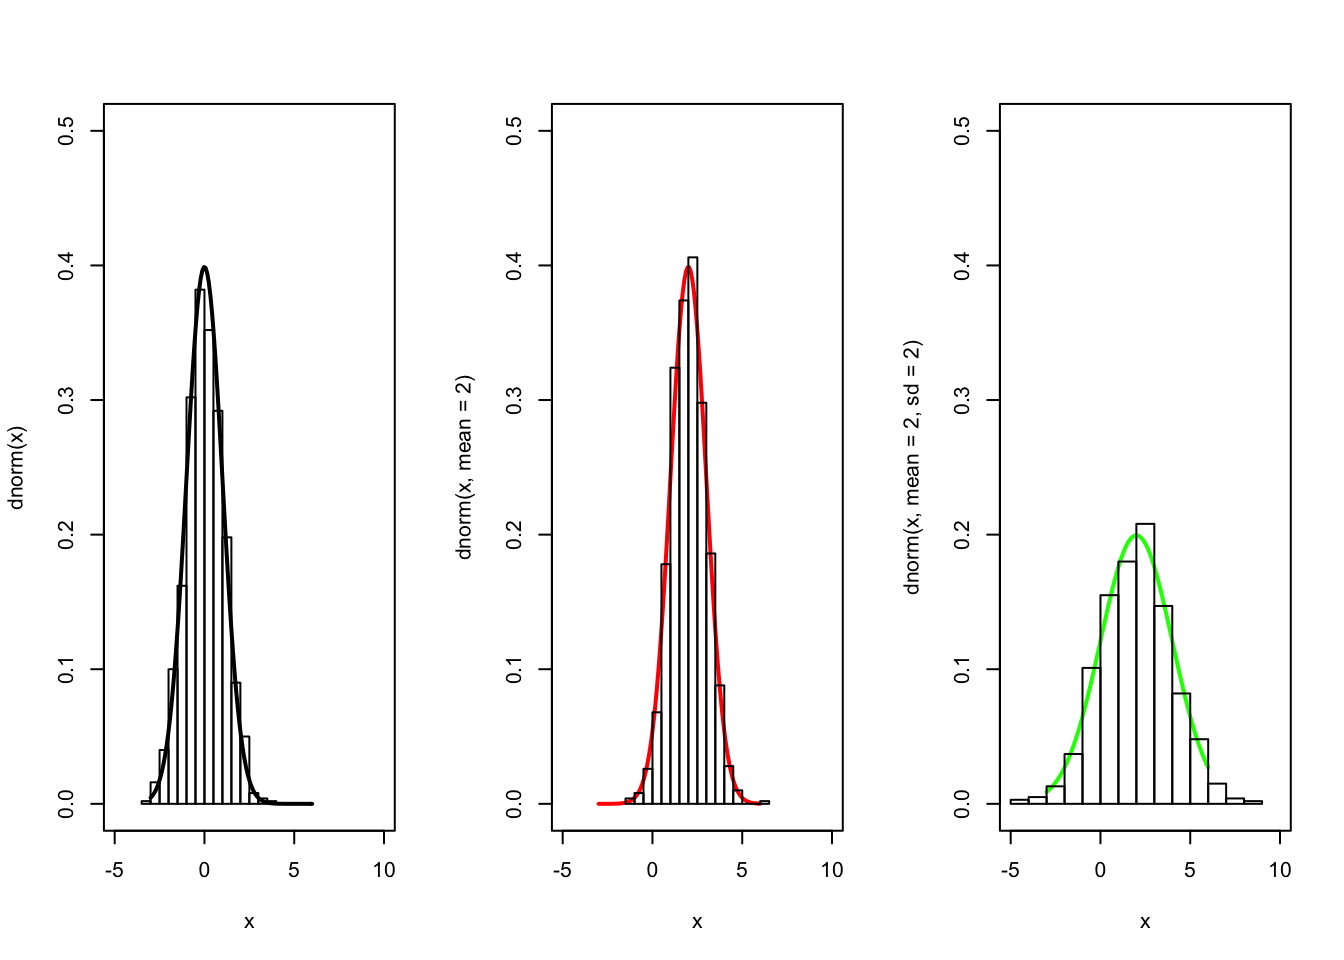
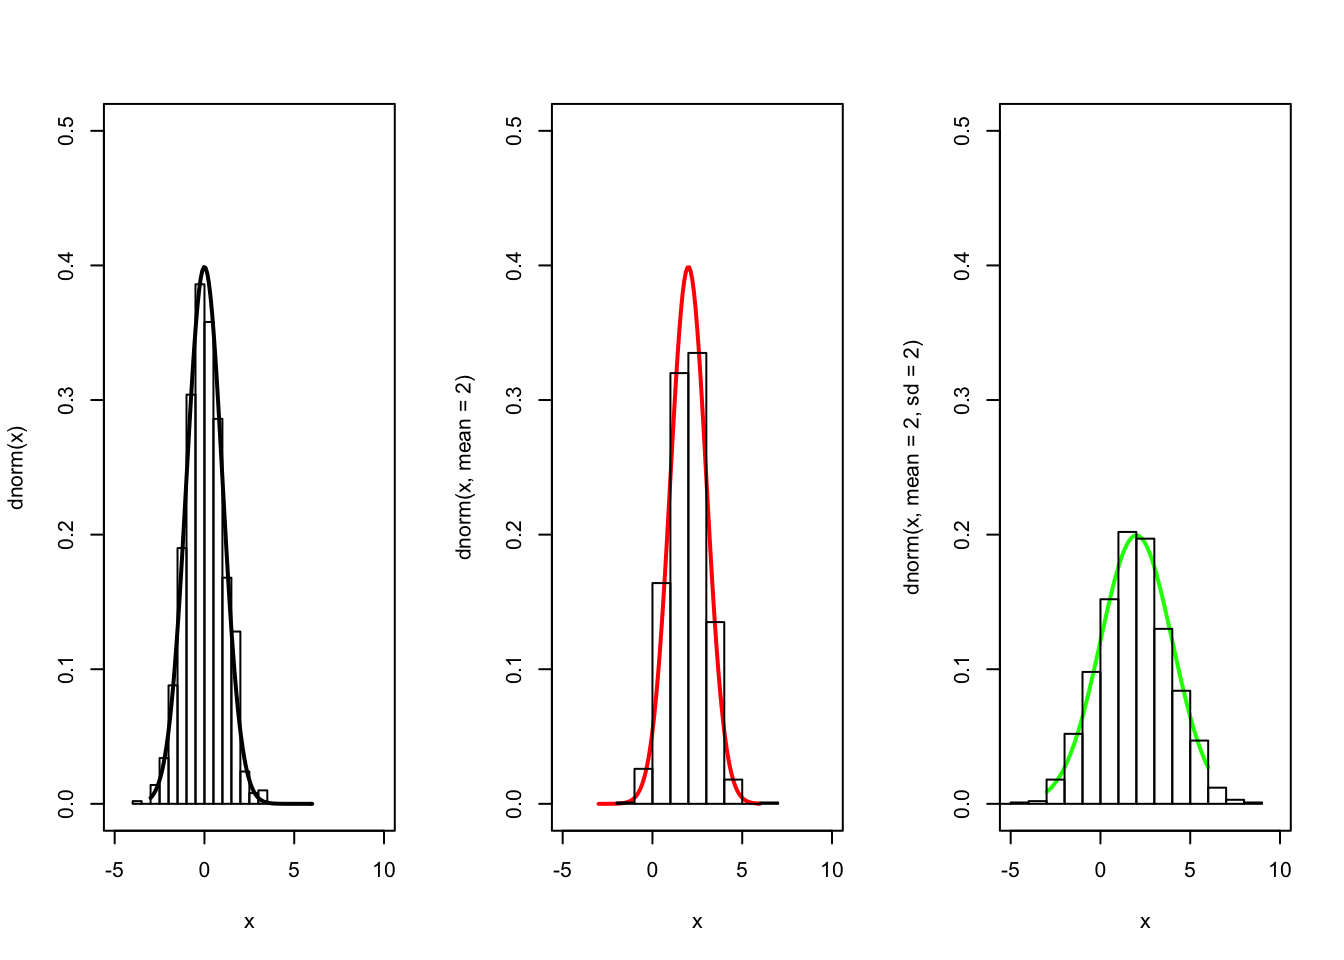
final edits

diff --git a/5_SimpleStats.html b/5_SimpleStats.html
@@ -438,7 +438,7 @@ div.tocify {
 <p>Important functions to know for first and second order moments are:</p>
 <ul>
 <li><code>mean(x)</code>, <code>weighted.mean(x)</code>, <code>median(x)</code> : arithmetic mean, weighted mean, and median of a vector (here: x)</li>
-<li><code>quantile(x, probs=p)</code> : the p% quantile of vector x</li>
+<li><code>quantile(x, probs = p)</code> : the p% quantile of vector x</li>
 <li><code>sd(x)</code>, <code>var(x)</code>: standard deviation, and variance (both with denominator n-1)</li>
 <li><code>mad(x)</code> : median absolute deviation</li>
 <li><code>range(x)</code> : minimum and maximum values</li>
@@ -471,24 +471,24 @@ dnorm(0, 2)</code></pre>
 <pre class="r"><code># look at green curve in above plot:
 dnorm(0, 2, 2) </code></pre>
 <pre><code>## [1] 0.1209854</code></pre>
-<p>We can also draw random numbers from these distributions using the function <code>rnorm()</code>.</p>
+<p>We can also draw random numbers from these distributions using the function <code>rnorm()</code>. ?dnorm</p>
 <pre class="r"><code># draw 10 random numbers from the standard normal distribution:
 rnorm(10)</code></pre>
-<pre><code>##  [1] -0.1149904 -0.2927501 -0.8794179 -0.7420134  0.2963912  1.4559174
-##  [7] -0.2469890  0.4642328  0.1853540  1.5307904</code></pre>
+<pre><code>##  [1]  0.32491033 -1.00297892 -1.12373098  0.08393606  0.93451556  0.45550842
+##  [7]  1.70269308 -0.79156564  0.86335446  0.89532436</code></pre>
 <pre class="r"><code>par(mfrow=c(1,3)) 
 # plot the density function
 curve(dnorm(x), -3, 6, lwd = 2, ylim = c(0, 0.5), xlim=c(-5,10)) 
 # draw random numbers and plot as histogram
-hist(rnorm(1000), freq=F, col=NULL, add=T) 
+hist(rnorm(1000), freq = FALSE, col = NULL, add = TRUE) 
 
 # change parameter mean 
 curve(dnorm(x, mean = 2), -3, 6, col = &quot;red&quot;, lwd = 2,  ylim = c(0, 0.5), xlim=c(-5,10)) 
-hist(rnorm(1000, mean=2), freq=F, col=NULL,  add=T) 
+hist(rnorm(1000, mean=2), freq=FALSE, col=NULL,  add=TRUE) 
 
 # change parameters mean and sd 
 curve(dnorm(x, mean = 2, sd = 2), -3, 6, col = &quot;green&quot;, lwd = 2,  ylim = c(0, 0.5), xlim=c(-5,10))
-hist(rnorm(1000, mean=2, sd=2), freq=F, col=NULL, add=T)</code></pre>
+hist(rnorm(1000, mean=2, sd=2), freq=FALSE, col=NULL, add=TRUE)</code></pre>
 <p><img src="5_SimpleStats_files/figure-html/unnamed-chunk-3-1.png" width="672" /></p>
 <p><strong>Extra:</strong> Also have a look at the cumulative density function <code>pnorm()</code> and the quantile function <code>qnorm()</code>.</p>
 </div>
@@ -501,9 +501,9 @@ sample(1:30, size = 20, replace = TRUE) # with replacement
 sample(letters, 10)</code></pre>
 <div class="alert alert-info">
 <p><em><strong>Exercises:</strong></em></p>
-<p>Task 1: Create a sample with <code>n = 1000</code> draws from the log-normal distribution. <!-- This makes them think about another distribution, they will have to figure out how to parametrize (if there are no defaults) and draw a sample. --></p>
+<p>Task 1: Create a sample with <code>n = 1000</code> draws from the log-normal distribution, choose your own distribution parameters or just use the defaults. Plot the curve and histogram. <!-- This makes them think about another distribution, they will have to figure out how to parametrize (if there are no defaults) and draw a sample. --></p>
 <p><br></p>
-<p>Task 2: Use the sample to estimate the parameters of the density function you applied for the random draw. Do these estimated parameters differ from the ones you specified to draw the sample? (Hint: you can use the R documentation for the log-normal function or try google to work out how to calculate the parameters from your samples) <!-- they have to find out how to estimate the parameters of the log-normal p density function and compare those parameters with the ones they used to fit. The aim is for themn to learn how the distribution parameters and sampled values are linked. --></p>
+<p>Task 2: Use the sample to estimate the parameters of the log-normal distribution you applied for the random draw. Do these estimated parameters differ from the ones you specified to draw the sample? (Hint: you can use the R documentation for the log-normal function or try google to work out how to calculate the parameters from your samples) <!-- they have to find out how to estimate the parameters of the log-normal p density function and compare those parameters with the ones they used to fit. The aim is for themn to learn how the distribution parameters and sampled values are linked. --></p>
 <p><br></p>
 </div>
 <!-- # References -->

diff --git a/3_DataImportExport.html b/3_DataImportExport.html
@@ -480,7 +480,7 @@ read_delim(file.path(&quot;data&quot;, &quot;veggyshopping.txt&quot;), delim = &
 read_csv(file.path(&quot;data&quot;, &quot;veggyshopping.txt&quot;))
 
 library(data.table)
-fread(&quot;data&quot;, &quot;veggyshopping.txt&#39;)</code></pre>
+fread(file.path(&quot;data&quot;, &quot;veggyshopping.txt&#39;))</code></pre>
 </div>
 <div id="write-text-data" class="section level1">
 <h1><span class="header-section-number">2</span> Write text data</h1>
@@ -491,7 +491,7 @@ write.csv(veggy_shopping, file.path(&quot;data&quot;, &quot;veggyshopping.csv&qu
 <p>Important arguments:</p>
 <ul>
 <li><code>file</code>: (path) and file name</li>
-<li><code>sep</code>: column separator. Default: &quot; &quot; (white space or tab)</li>
+<li><code>sep</code>: column separator. Default: &quot; &quot; or “,” (depending on function)</li>
 <li><code>dec</code>: character used for decimal points. Default: “.”</li>
 </ul>
 <p>The function <code>write()</code> allows writing vectors and matrices to file. However, it contains some surprising default settings. Check out the help pages and below example. For demonstration purpose, we pipe the output into the console (&quot;&quot;).</p>
@@ -515,11 +515,11 @@ write(t(Xmat), &quot;&quot;)</code></pre>
 <li><code>save.image()</code>: stores your entire workspace (equivalent to <code>save()</code>, but fall all the data currently in the global environment). This way, you can simply continue an R session at any later time by loading the stored workspace image (<code>load()</code>). When you are working in an RStudio project, workspace images are stored upon exiting the project by default. When your loaded objects take up a lot of memory, saving and loading can become pretty slow and it sometimes might be preferable to disable this setting.</li>
 </ul>
 <pre class="r"><code># save object Xmat to Rdata format
-save(Xmat, file = file.path(&quot;data&quot;, &quot;Xmat.Rdata&quot;)
+save(Xmat, file = file.path(&quot;data&quot;, &quot;Xmat.Rdata&quot;))
 load(file.path(&quot;data&quot;, &quot;Xmat.Rdata&quot;)) # object Xmat will be loaded into global environment
 
 saveRDS(Xmat, file = file.path(&quot;data&quot;, &quot;Xmat.rds&quot;))
-Xmat_differentname &lt;- readRDS(file.path(&quot;data&quot;, &quot;Xmat.Rdata&quot;) # same matrix, but is loaded into a different object name in global environment</code></pre>
+Xmat_differentname &lt;- readRDS(file.path(&quot;data&quot;, &quot;Xmat.rds&quot;)) # same matrix, but is loaded into a different object name in global environment</code></pre>
 <div class="alert alert-info">
 <p><em><strong>Exercises:</strong></em></p>
 <!--
@@ -528,7 +528,7 @@ Xmat_differentname &lt;- readRDS(file.path(&quot;data&quot;, &quot;Xmat.Rdata&qu
 * generate data sets with missing headers, incomplete rows, factors/characters
 * write table without rownames
 -->
-<p>Task 1: Download the file <code>surveys_pract3.txt</code> and save it in the data folder of your R-project. The data set contains vertebrate survey data with information about the survey date (year, month and day columns), the survey plot and information on the surveyed species (species id, sex, hindfoot length and weight) <span class="citation">(Ernest et al. 2018)</span>.</p>
+<p>Task 1: Download the file <a href="https://damariszurell.github.io/EEC-R-prep/data/surveys_pract3.txt"><code>surveys_pract3.txt</code></a> and save it in the data folder of your R-project. The data set contains vertebrate survey data with information about the survey date (year, month and day columns), the survey plot and information on the surveyed species (species id, sex, hindfoot length and weight) <span class="citation">(Ernest et al. 2018)</span>.</p>
 <ul>
 <li><p>Read the file to your workspace (hint: separator? header?) and inspect the data set (e.g. str(), summary()) (hint: when you see an error message, you may have to open the file in a text editor to see what the problem might be!) <!-- students will get an error message as one column header is missing ('year'), error message doesn't specifically state that --></p></li>
 <li>Are the data types of the columns correct? (hint: categorical variables should be <code>factor</code> and not <code>character</code>)<br />

diff --git a/2_OperatorsObjects.html b/2_OperatorsObjects.html
@@ -518,7 +518,11 @@ ls()</code></pre>
 <pre class="r"><code>T == TRUE
 F == FALSE
 T &lt;- F
-T == TRUE ## T is no longer TRUE</code></pre>
+T == TRUE ## T is no longer TRUE
+
+# Let&#39;s assign back, so we don&#39;t accidentally run into trouble later on
+T &lt;- TRUE
+F &lt;- FALSE</code></pre>
 <p>It is therefore recommended to avoid using <code>T</code> and <code>F</code> and use <code>TRUE</code> and <code>FALSE</code> instead (refer to <a href="http://adv-r.had.co.nz/Style.html">this very short R style guide by Hadley Wickham</a> for further details on best practise in styling your code).</p>
 </div>
 <div id="logic" class="section level1">
@@ -617,6 +621,7 @@ shopping[[&#39;farmers_market&#39;]]$veggy</code></pre>
 <pre class="r"><code>x[3] # retrieve the 3rd element of vector x
 x[3:4] # use can also address sequences</code></pre>
 <p>Basically, we distinguish four kinds of index vector: logical, positive integer, negative integer for excluding elements (inverse indexing), and character indices if we have named vectors.</p>
+<p><strong>Indexing vectors (one dimension):</strong></p>
 <pre class="r"><code>(x2 &lt;- c(x, NA))
 x2[!is.na(x2)] # logical index vector
 x2[c(1, 3:4)] # index vector with positive integers
@@ -625,6 +630,16 @@ x2[-c(1, 3:4)] # index vector with negative integers
 (Grocery &lt;- Fruits[c(&quot;Orange&quot;,&quot;Apple&quot;)]) # character index</code></pre>
 <p>You can also modify single elements.</p>
 <pre class="r"><code>Fruits[&quot;Banana&quot;] &lt;- 0</code></pre>
+<p><strong>Indexing matrices and data frames:</strong> Matrices and data frames are structured in rows and columns. In both cases, indexing a single element requires two index values - the first specifying the row and the second one the column.</p>
+<pre class="r"><code># Matrix and dataframe
+x_mat[2,1] # element in second row, first column (returns single value)
+x_mat[ ,2] # whole second column (returns vector)
+x_mat[1, ] # whole first row (returns vector)
+
+# only dataframe
+veggy_shopping$grams #column `grams`, using `$` operator and column name (returns vector)
+
+veggy_shopping[&quot;grams&quot;] #column `grams`, using character index</code></pre>
 </div>
 <div id="object-structures" class="section level1">
 <h1><span class="header-section-number">8</span> Object structures</h1>
@@ -638,9 +653,6 @@ str(shopping)</code></pre>
 <h1><span class="header-section-number">9</span> Problem solving</h1>
 <p>Nobody knows an entire coding language and can immediately develop perfect code from scratch that does exactly what we want. More often than not, code will result in errors and perhaps the most integral part of writing and developing code is dealing with errors. Common errors are:</p>
 <p><em><em>Calling a function without loading its package:</em></em></p>
-<pre class="r"><code># unload ggplot package (for illustration only)
-detach(&quot;package:ggplot2&quot;, unload = TRUE)</code></pre>
-<pre><code>## Error in detach(&quot;package:ggplot2&quot;, unload = TRUE): invalid &#39;name&#39; argument</code></pre>
 <pre class="r"><code># try to load ggplot function
 ggplot() # ggplot2 package not loaded</code></pre>
 <pre><code>## Error in ggplot(): konnte Funktion &quot;ggplot&quot; nicht finden</code></pre>

diff --git a/6_ControlFlows.html b/6_ControlFlows.html
@@ -462,8 +462,8 @@ renew</code></pre>
 ifelse (x &lt;= 30, &quot;I am 30 or younger&quot;, &quot;I&#39;m older than 30&quot;)</code></pre>
 <p><code>ifelse()</code> is most useful for evaluating elements of a vector according to a specific condition.</p>
 <pre class="r"><code>(x &lt;- sample(1:20, 30, replace = TRUE))
-ifelse(x &lt;= 10, 0, 1)
-ifelse(x &lt;= 10, FALSE, TRUE)</code></pre>
+ifelse(x &lt;= 10, &quot;a&quot;, &quot;b&quot;)
+ifelse(x &lt;= 10, 1, 0)</code></pre>
 </div>
 </div>
 <div id="for-loops" class="section level1">
@@ -493,7 +493,8 @@ for (i in 2:length(x)){
 }
 y
 
-# This does almost the same thing, but using a while loop. The main difference to for loop is that this while-loop finishes before reaching 150, and the for loop above finishes after reaching 150.
+# This does almost the same thing, but using a while loop.
+
 y &lt;- 0
 while(tail(y, 1) &lt; 150){
   y &lt;- c(y, tail(y, 1) + sample(1:6, 1))
@@ -541,7 +542,7 @@ km_to_miles(80)</code></pre>
 <p><em><strong>Exercises:</strong></em></p>
 <p>Task 1: Write a function that returns the number of months after which an annual streaming subscription becomes cheaper than paying monthly, for any monthly and annual subscription price (hint: you will have to use function <code>floor()</code>)</p>
 <p><br></p>
-<p>Task 2: Use the log-normal default parameters to make 10 draws each of sizes <code>n = 500</code>, <code>n = 50</code> and <code>n = 5</code>. For each random draw, calculate the distribution parameters (this is called <em>bootstrapping</em>). Compare the parameters estimated from your draws with the default parameters. What do you observe between different sample sizes? (hint: you can use a for loop to make draws and estimate parameters for each draw. Think about a good way to store the <em>estimated</em> parameters so you can compare them easily with the ones you initially <em>specified</em>). <!-- This teaches them to build a for loop for a very simple bootstrapping routine and come up with a simple data structure to store results.
+<p>Task 2: Use the log-normal default parameters to make 10 draws each of sizes <code>n = 500</code>, <code>n = 50</code> and <code>n = 5</code>. For each random draw, calculate the distribution parameters. Compare the parameters estimated from your draws with the default parameters. What do you observe between different sample sizes? (hint: you can use a for loop to make draws and estimate parameters for each draw. Think about a good way to store the <em>estimated</em> parameters so you can compare them easily with the ones you initially <em>specified</em>). <!-- This teaches them to build a for loop for a very simple bootstrapping routine and come up with a simple data structure to store results.
 
 <!-- # References --></p>
 </div>

diff --git a/1_GettingStarted.html b/1_GettingStarted.html
@@ -493,7 +493,7 @@ The RStudio <a href="https://www.rstudio.com/resources/cheatsheets/">cheat sheet
 <ul>
 <li>Open RStudio</li>
 <li>Go to the tab “File” and select “New Project”</li>
-<li>Select either “New Directory” if you haven’t set up a course folder yet, or select “Existing Directory” to point towards an existing folder. This directory will be the working folder for the course. Navigate to the path of the project folder on your machine (e.g. ’~Documents/Courses/R-intro)</li>
+<li>Select either “New Directory” if you haven’t set up a course folder yet, or select “Existing Directory” to point towards an existing folder. This directory will be the working folder for the course. Navigate to the path of the project folder on your machine (e.g. ’~Documents/Courses/R-intro)</li>
 <li>Name your project<br />
 </li>
 <li>Use your file explorer on your machine, find your project folder, and create four sub-folders: data, scripts, results, and figures</li>

diff --git a/4_Visualisation.html b/4_Visualisation.html
@@ -540,7 +540,7 @@ p + geom_point() + geom_smooth(method = &quot;loess&quot;)</code></pre>
 <ul>
 <li><p>Add points for I. setosa and I. virginica. (hint: when you add values the x and y-axis range isn’t adjusted and some values might not be shown. Adjust the x and y axis ranges to make sure all values are shown)</p></li>
 <li><p>add a legend</p></li>
-<li><p>Save the graphic in folder <code>/graphics</code>.</p></li>
+<li><p>Save the graphic in folder <code>/figures</code>.</p></li>
 </ul>
 <p><br></p>
 <p>Task 2: Load the survey data set from the previous practical: <code>surveys_pract3_correct.csv</code>.<br />
